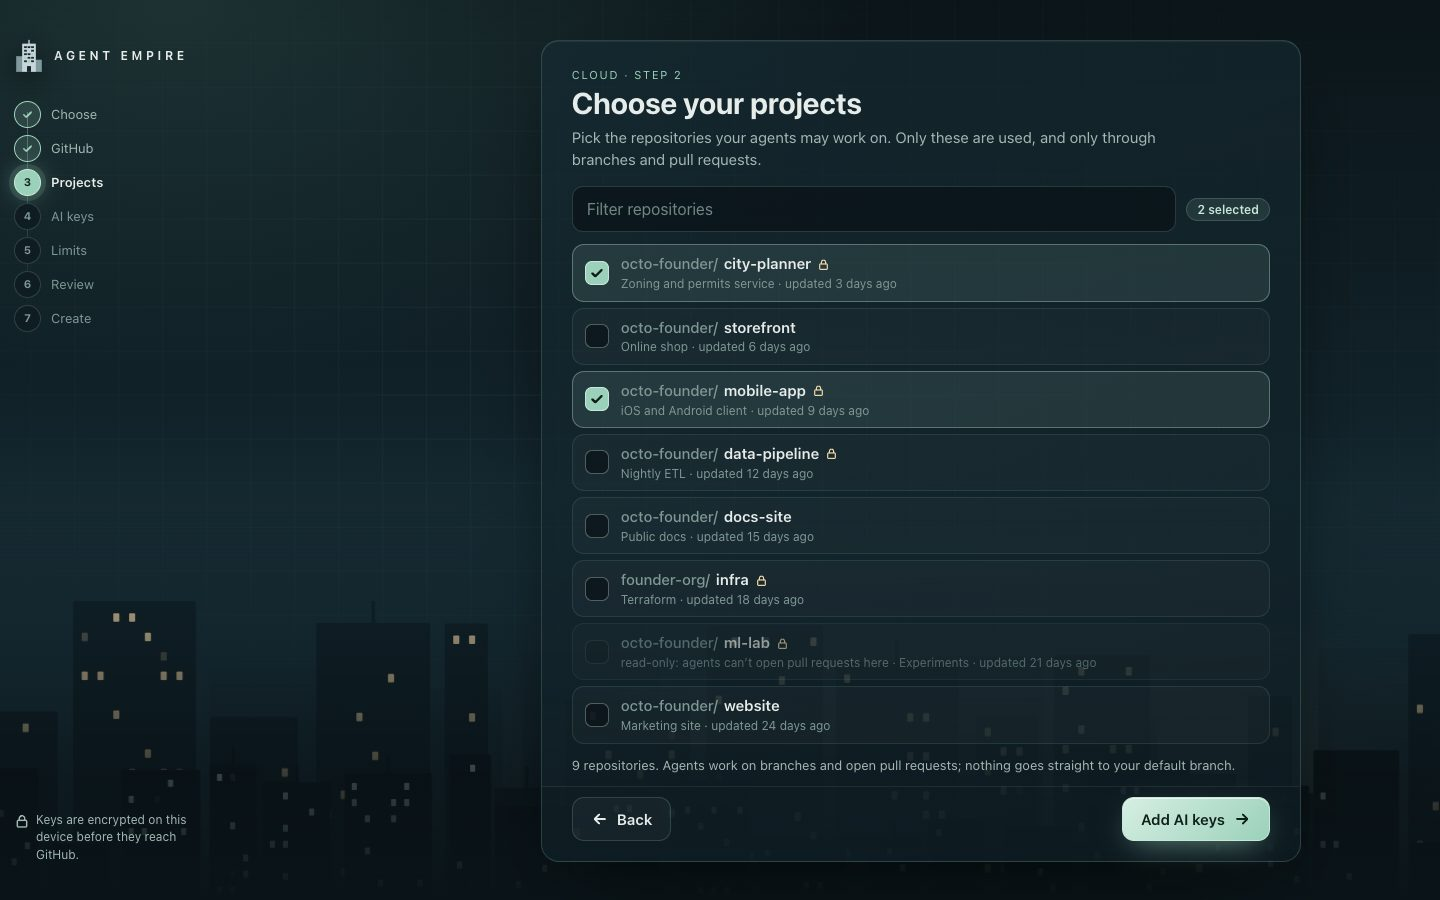
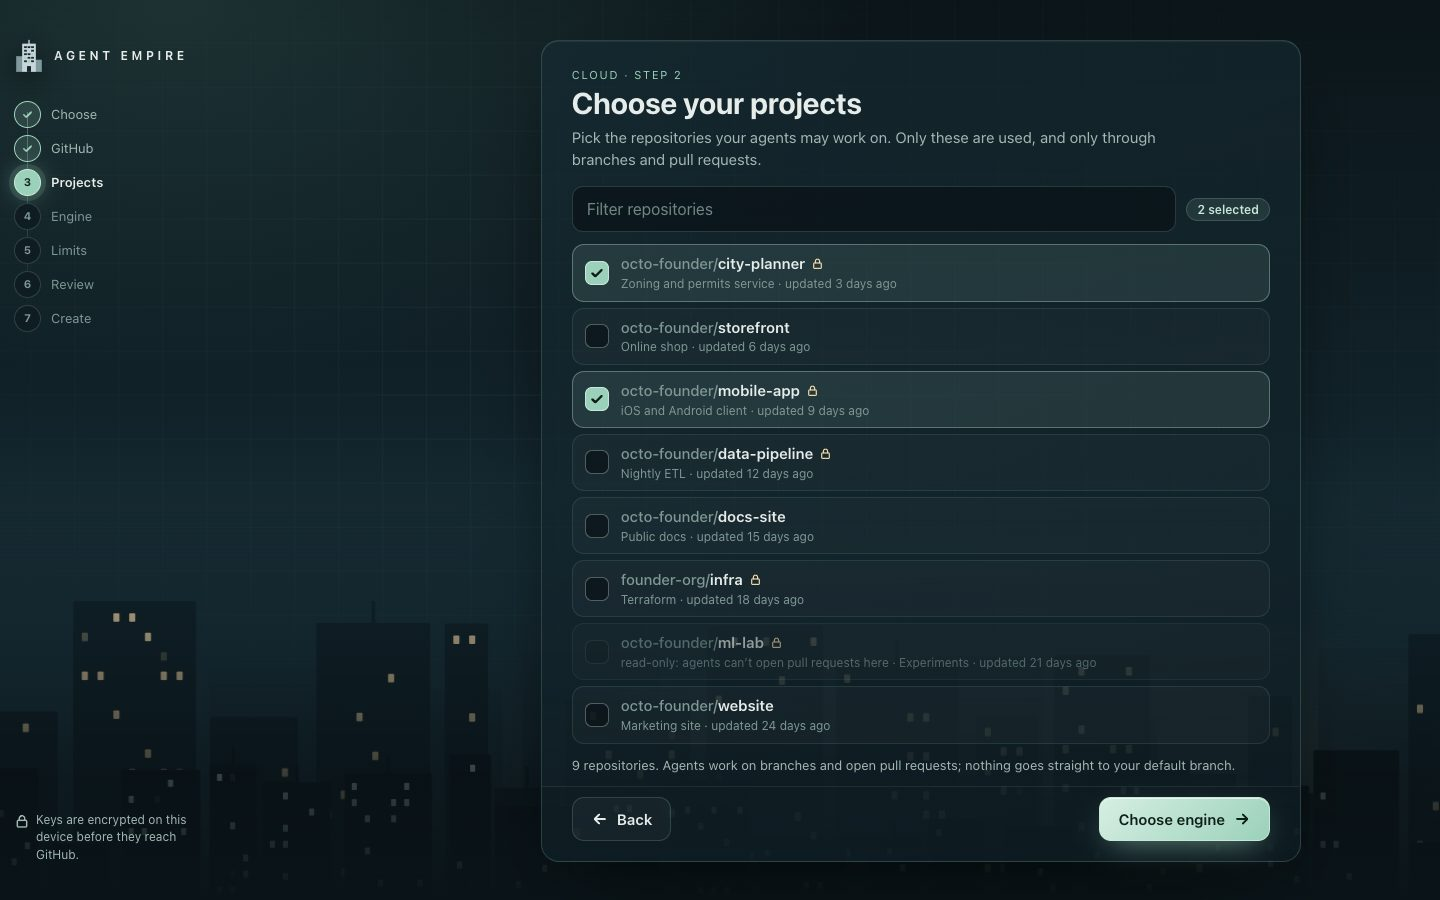
DEVICE-BUGS-03: report (root causes, fixes, device evidence, checks); refreshed setup repos and settings screenshots

diff --git a/docs/team/reports/device-bugs-03.md b/docs/team/reports/device-bugs-03.md
@@ -1,0 +1,151 @@
+# Device bugs round 3 (DEVICE-BUGS-03)
+
+Branch `claude/device-bugs-03`, from `origin/codex/empire-world` at `64585f8`. Tested on 2026-10-26 on an Apple M4 Pro Mac (macOS 27). Owner reports on the published **1.0.0-beta.2**.
+
+**Isolation.**
+- **Ports.** Fixtures used ports 5231–5236. The emulator used 5244 and the WebView DevTools forward 5246. The scratch Mac app's CDP used 5247 and 5248. The released local host was started once on 5249.
+- **Never touched:** port 4610, Pixel, `.agent-office`, the real Mac profile (`~/Library/Application Support/Agent Empire`) and the user's AVDs.
+- **No sign-ins.** I made no paid calls, used no real credentials and created no accounts. The GitHub sign-ins in this round all used a fake token against an in-memory `api.github.com`.
+- **Scratch only.** The Android emulator ran a scratch AVD (`db03`, 3 GB data partition). I deleted it afterwards.
+- **Clean-up.** Everything I started is stopped, and the scratch downloads are deleted.
+
+## Bug 1: the Android cloud setup runs off the right edge
+
+### Reproduced
+
+- **Released APK** (`Agent-Empire-Android.apk`, SHA-256 `1070e5d0…dc9f`) on an API 35 emulator, at 2400×1080 and 420 dpi (CSS 915×412).
+  - The setup welcome, mode and GitHub steps render, but the projects step can't be reached in a release build: it needs a real GitHub sign-in, and release WebViews aren't inspectable.
+  - So the projects step was driven on a **debug APK built from the same sources**. Over the WebView DevTools socket (raw CDP), `api.github.com` was answered by `tests/fake-github.ts`.
+- **Chromium (Playwright)** with the owner's kind of data, meaning long repository descriptions: the **projects panel overflows at every size**, 1024×768 included.
+  - The panel ends at x = 969 on a 915 px screen and at 875 on a 667 px screen. The lede is cut ("Only t…"), the descriptions are clipped and **Choose engine** is off screen. That is exactly the owner's screenshot.
+  - Evidence: `device-bugs-03/android-setup/before-repos-*.jpg`.
+
+### Root cause
+
+- **The stage track.** `.su-stage` is a grid with no explicit tracks, so its implicit column is `auto`.
+- **How it grows.** An `auto` track's minimum is the grid item's min-content width. The panel's min-content width comes from content that can't wrap:
+  - repository descriptions (`.su-repo-meta { white-space: nowrap }`);
+  - `nowrap` buttons;
+  - long unbroken names.
+- **The result.** The column, and the panel in it, grew to the panel's 760 px maximum whatever the screen width. `.su { overflow: hidden }` then clipped the right side silently.
+- **Why the old check missed it:**
+  - it measured `scrollWidth` at only two sizes (874×402 and 1440×900);
+  - it used short fixture descriptions.
+
+Font scale is **not** the trigger in the Android app. `MainActivity` sets `setTextZoom(100)`, so the WebView's text doesn't change at font scale 1.3 (checked on the emulator). Browsers and the PWA do scale text, so the sweep covers that case too.
+
+### Fix (`src/client/setup/setup.css`, `view.ts`)
+
+- **Grid tracks.** `.su-stage { grid-template: minmax(0, 1fr) / minmax(0, 1fr) }`, plus `min-width: 0` / `max-width: 100%` down the panel, header, footer, rows and buttons.
+- **Repository rows:**
+  - descriptions wrap and clamp to two lines with an ellipsis;
+  - names flow inline, so a long name wraps after the owner and the lock icon follows it;
+  - the filter field shrinks.
+- **Footer.** It wraps if it must, and the primary action keeps the right edge. It is the panel's sticky footer, so it is always on screen. Button labels ellipsize instead of pushing.
+- **Step rail:**
+  - an icon rail in short landscape up to **820 px** wide (it was 700), so 800×360 phones get the width;
+  - in portrait it stays the existing top progress bar;
+  - labels ellipsize.
+- **Welcome title.** It wraps between "AGENT" and "EMPIRE" instead of running off a phone with large text.
+- **Long text.** Errors, callouts, the linked-account card and the create progress wrap long tokens.
+
+### New automated check (`tools/setup-ui-check.ts`, overflow sweep)
+
+- **Coverage.** Every step: welcome, mode, GitHub device step, GitHub linked, projects, engine, limits, review, create (failed and resumable), own server, the desktop three-way choice, the web token fallback and the web server step.
+- **Sizes:** 667×375, 800×360, 915×412, 375×812 portrait, 1024×768, and 740×332 (a 915×412 phone with a larger Android display size).
+- **Text cases:** 100%, CSS zoom 130%, and text-only 130% (every font size × 1.3, like Chrome text scaling).
+- **What it measures.** Each element's visible right edge, honouring clipping ancestors inside the setup. `scrollWidth` alone missed this bug. It also checks that the primary button is fully on screen.
+- **Before the fix: 29 failures.** The projects step failed at all sizes, plus the GitHub-linked, review, create, web-server and welcome steps at the phone sizes with larger text.
+- **After the fix: 234 of 234 pass.**
+- **Options.** `SWEEP_ONLY=1` runs just the sweep. `SWEEP_OUT=<dir>` saves every case.
+
+### Verified on the device (debug APK of the fixed sources)
+
+| Case | Viewport | Result | Evidence |
+| --- | --- | --- | --- |
+| Projects step, default display | 915×412 @2.625 | nothing overflows, **Choose engine** visible | `android-emulator/after-debug-apk-repos-default.jpg` |
+| Projects step, display size 520 dpi + font scale 1.3, cold start | 739×333 @3.25 | icon rail, nothing overflows, primary visible | `android-emulator/after-debug-apk-repos-display-large-font130.jpg` |
+
+Released-APK screens for comparison: `before-released-apk-mode-default.jpg` and `before-released-apk-github-default.jpg`.
+
+### Found on the way (not fixed here)
+
+- **The WebView doesn't re-lay out after a runtime display-size change.** The manifest lists `density` in `configChanges`, and nothing handles it.
+  - After `wm density 520` with the app open, the page keeps a 915 px CSS viewport while it renders at DPR 3.25, so everything is scaled off screen. That happens on the released APK and on the debug build.
+  - A cold start is correct.
+  - Evidence: `released-apk-runtime-density-change-stale-viewport.jpg` and `debug-apk-runtime-density-change-stale-viewport.jpg`.
+  - Suggested fix: on a `densityDpi` change in `onConfigurationChanged`, reload the WebView layout, or drop `density` from `configChanges` and let the activity be recreated. The second option needs setup progress to survive that.
+- **Changing the font scale on the released APK returned the setup to the welcome screen** (`released-apk-font-scale-130-restarts-setup.jpg`). On the debug build the process survived. I didn't look further.
+
+## Bug 2: the Mac app "seems to use the old world design"
+
+### What the released app runs
+
+- **The DMG.** `Agent-Empire-Mac-Apple-Silicon.dmg` (beta.2) was copied to scratch: shell `CFBundleShortVersionString` 1.0.0-beta.2, `Resources/app/package.json` 1.0.0-beta.2.
+- **The built-in game.** `runtime/public` is **byte-identical** to the released `agent-empire-game-1.0.0-beta.2.zip` (`diff -rq`, no differences). Its `game-version.json` is `1.0.0-beta.2`.
+- **Launched with `--user-data-dir=<scratch>`:**
+  - The window loads `empire-app://game/`, and `/game-version.json` = `1.0.0-beta.2`, script `assets/main-CD0gm_P7.js`. That is the released bundle.
+  - Driving further stalled: the first secure-storage write blocks the main process. This is almost certainly macOS asking for access to the real "Agent Empire Safe Storage" Keychain item, because the scratch copy has the same name.
+  - I stopped there rather than touch the owner's Keychain. Screen recording isn't permitted for this session, so I couldn't see the prompt.
+
+### Upgrade from beta.1 to beta.2
+
+I ran `scratch/mac/upgrade-sim.cjs` with the **released beta.2 app's own `update-store.cjs`**. Its built-in game is the app's `runtime/public`. Each scratch profile's update store held the **released beta.1 game zip**, unpacked:
+
+| Update store before launch | Served after `launch()` |
+| --- | --- |
+| beta.1 active and known good | built-in beta.2 (`main-CD0gm_P7.js`) |
+| beta.1 pending | built-in beta.2 |
+| beta.1 mid-trial (previous start never booted) | built-in beta.2, and beta.1 marked bad |
+| beta.2 game installed earlier by the beta.1 shell | built-in beta.2 |
+| fresh | built-in beta.2 |
+
+- **No update-store bug.**
+  - `servable()` serves an installed bundle only when it is strictly newer than the built-in game.
+  - `compareSemver` orders beta.1 < beta.2 correctly.
+  - The channel bridge can't install an equal or older game (`refuse()`).
+  - `tests/desktop-updates.test.ts` already covers "after the app itself updated".
+- **Local own-server mode.** I started the released app's `local-host.cjs` with its runtime on 5249 (scratch project, no credentials): `/api/health` OK, `publicDir` = the same `runtime/public`. In local mode the window still loads the built-in `empire-app://` game and only talks to the host.
+- **Minor.** The server answers `/game-version.json` with an HTML page instead of the file. Nothing in the app reads it from the server.
+
+### Root cause
+
+- **The world changed after the release.** 65 commits landed on `codex/empire-world` after the `v1.0.0-beta.2` tag (`1fb8e12`, 2026-10-25 14:04). They include the CITY-10 city architect (world additions rendered in the game) and the CHAR-02 animation states: 1,410 changed lines across `src/client/world`, `src/shared/world*.ts` and the UI.
+- **The version label didn't.** `package.json` stayed `1.0.0-beta.2`, so every later build (`npm run desktop`, the dev server, previews, fixtures) calls itself **Game 1.0.0-beta.2**, exactly like the release.
+- **Conclusion.** The released Mac app is the released beta.2 world. If the owner compared it with a newer build, both showed the same version, and the app had no way to show the difference.
+- **Another possible cause.** A beta.1 app still in use, for example launched from an old copy, shows the beta.1 world and labels itself 1.0.0-beta.1.
+
+### Fix: make the build visible (test first)
+
+- **The build stamp.** `tools/release/game-build.mjs` → `{commit, date, dirty}`. Git HEAD is the default; CI can pin it with `GITHUB_SHA` or `AGENT_EMPIRE_BUILD_COMMIT`. Outside Git it is null.
+- **The build output.** `vite.config.ts` writes `game-version.json` = `{version, build}` and defines `__AGENT_EMPIRE_GAME_BUILD__`. The native shells (desktop, Android, iOS, and the frozen beta.1 readers) read only `version`.
+- **The display.** `src/client/update/version-line.ts`: Settings › Updates and the game menu now read "**Game 1.0.0-beta.2 (build 1fb8e12, 25 Oct 2026)** · desktop app 1.0.0-beta.2 · Beta channel". A `+` marks a build from uncommitted changes.
+- **The menu entry.** It always shows this line. Before, it showed it only after an update check.
+- **Tests:**
+  - `tests/game-build.test.ts`: red before (missing module), 5 of 5 after;
+  - `setup-ui-check` asserts the Settings line at both sizes.
+- **Evidence:** `device-bugs-03/mac/after-settings-version-with-build-874x402.jpg` and `-1440x900.jpg`. They show Settings › Updates reading "Game 1.0.0-beta.2 (build d2a29c0+, 26 Oct 2026)" for this branch's build. There is no "before" picture of the Mac window, because of the Keychain stall. Before this change the line read "Game 1.0.0-beta.2 · desktop app 1.0.0-beta.2 · …" for the release and for every later build alike.
+- **How the owner can tell builds apart now:**
+  - The release built from the tag shows `build 1fb8e12`.
+  - A build of today's branch shows its own commit.
+  - The shell version shows which app is running.
+
+## Checks
+
+| Check | Result |
+| --- | --- |
+| `npm run typecheck` | pass |
+| `npm test` | 1138 tests: 1137 pass, 1 skipped, 0 fail |
+| `npm run build` | pass (client and server; no fixture markers or development key in `dist/public`; no development key trust in `dist/server`) |
+| `setup-ui-check` (with the overflow sweep) | **365/365** ALL PASS: the 234-case overflow sweep, the existing flows at 874×402 and 1440×900, and the new Settings build line |
+| `mobile-ui-check` | 411/411 |
+| `cloud-ui-check` | 171/171 ALL PASS |
+| `onboarding-ui-check` | 60/60 |
+
+I reverted the screenshots the checks regenerate under other reports' folders. In `docs/team/reports/setup/`, only `*-05-repos.jpg` (the new repository rows) and `*-14-settings.jpg` (the build line) are updated. The evidence for this round is in `docs/team/reports/device-bugs-03/`.
+
+## Not done
+
+- **The Mac GUI past the first screen** in the scratch profile, because of the Keychain prompt described above. A test run would need a differently named scratch build, or an approved Keychain item.
+- **The projects step on the released APK itself.** It needs a real GitHub sign-in.
+- **The runtime display-size relayout and the font-scale restart on Android.** Both are described above and not fixed here.
